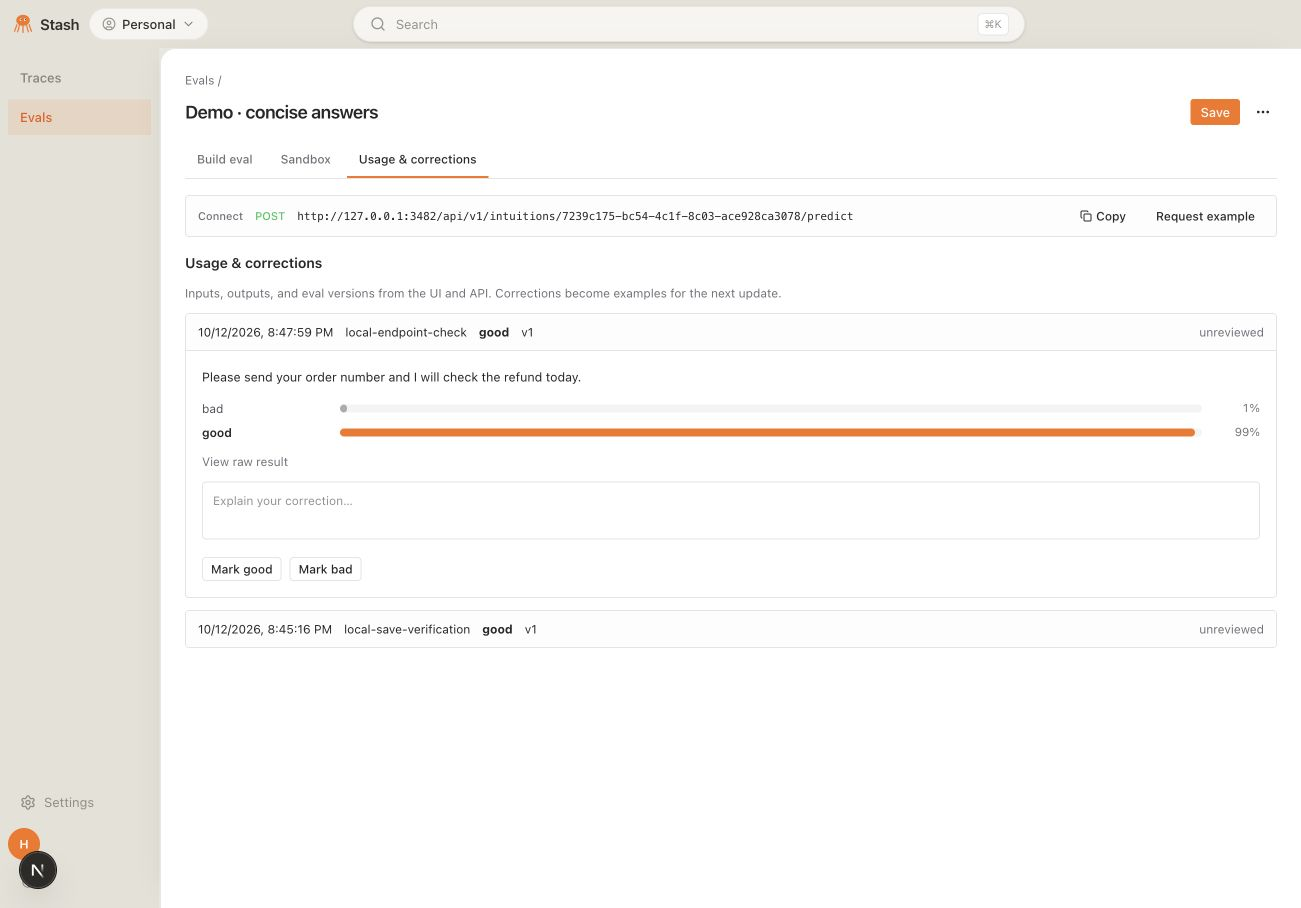
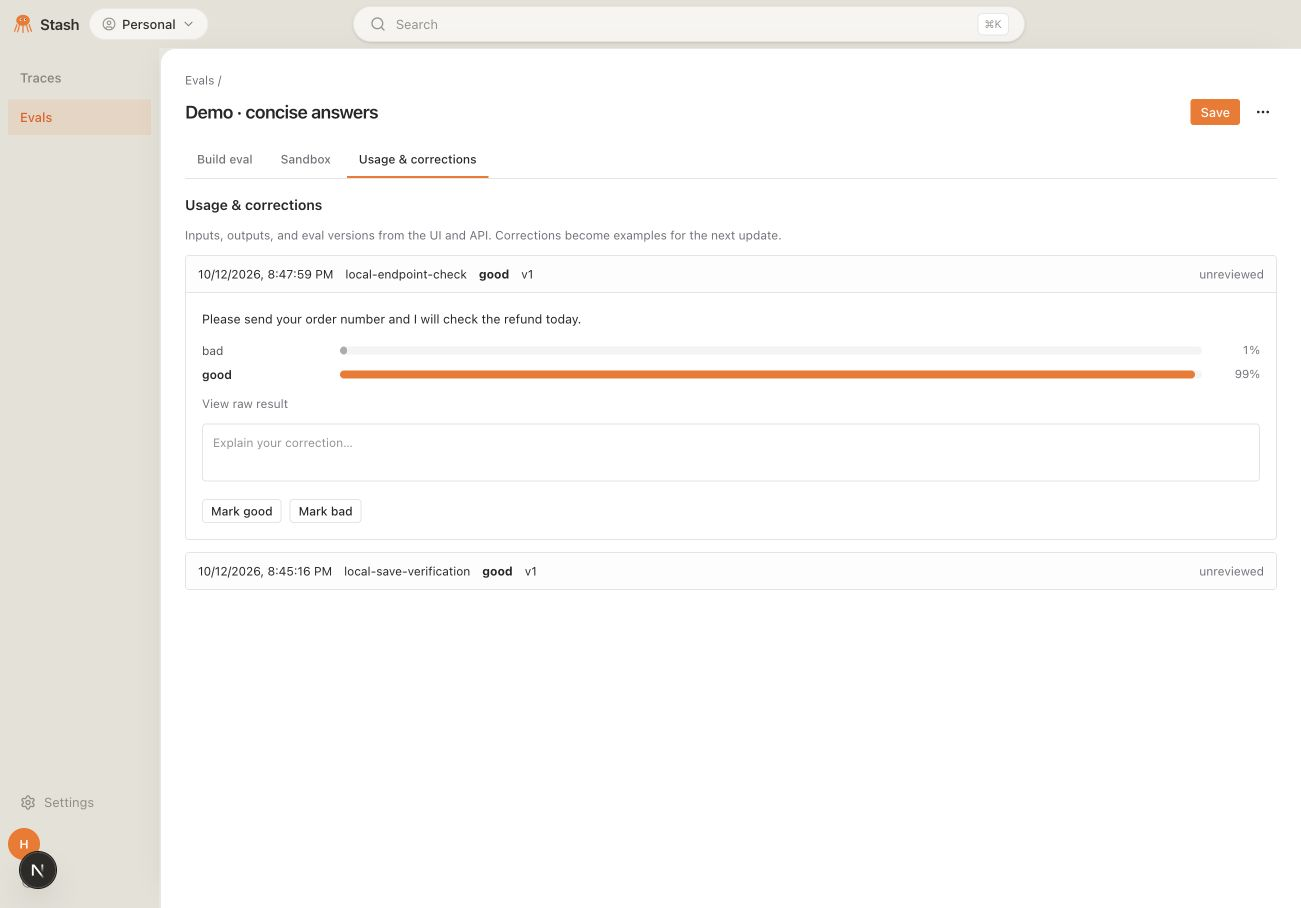
Show eval connection details only on the build tab

diff --git a/frontend/src/components/evals/EvalWorkspace.tsx b/frontend/src/components/evals/EvalWorkspace.tsx
@@ -133,7 +133,7 @@ export default function EvalWorkspace({ id }: { id: string }) {
     <div className="flex flex-wrap items-center justify-between gap-3 border-b border-border">
       <div className="flex gap-1" role="group" aria-label="Eval workspace">{["build", "test", "usage"].map((tab) => <Button key={tab} size="sm" variant="ghost" data-eval-tab className={`h-9 rounded-none border-0 border-b-2 px-3 text-xs ${view === tab ? "border-primary text-foreground" : "border-transparent text-muted-foreground"}`} aria-pressed={view === tab} disabled={!!busy} onClick={() => { if (tab === view) return; setView(tab); setSelectedExample(null); closeAdd(); if (tab === "test") setTestItem(null); }}>{tab === "build" ? "Build eval" : tab === "test" ? "Sandbox" : "Usage & corrections"}</Button>)}</div>
     </div>
-    <EvalEndpoint id={id} outputType={detail.model.output_type} />
+    {view === "build" && <EvalEndpoint id={id} outputType={detail.model.output_type} />}
     {error && !addOpen && !selectedExample && !(saveProgress?.status === "failed" && error === saveError) && <p role="alert" className="text-xs text-destructive">{error}</p>}
     {busy && !selectedExample && saveProgress?.status !== "running" && <p role="status" className="text-xs text-muted-foreground">{busy}</p>}
     {view !== "build" && saveProgress && <SaveStatus progress={saveProgress} error={saveError} onTest={() => { setTestItem(null); setView("test"); }} />}

diff --git a/frontend/src/components/evals/EvalWorkspace.test.tsx b/frontend/src/components/evals/EvalWorkspace.test.tsx
@@ -97,6 +97,12 @@ it("shows the endpoint directly, keeps Connect out of the menu, and expands requ
   fireEvent.keyDown(panel, { key: "Escape" });
   expect(screen.queryByRole("region", { name: "API request" })).not.toBeInTheDocument();
   expect(screen.getByRole("region", { name: "API endpoint" })).toBeVisible();
+  fireEvent.click(screen.getByRole("button", { name: "Sandbox" }));
+  expect(screen.queryByRole("region", { name: "API endpoint" })).not.toBeInTheDocument();
+  fireEvent.click(screen.getByRole("button", { name: "Usage & corrections" }));
+  expect(screen.queryByRole("region", { name: "API endpoint" })).not.toBeInTheDocument();
+  fireEvent.click(screen.getByRole("button", { name: "Build eval" }));
+  expect(screen.getByRole("region", { name: "API endpoint" })).toBeVisible();
 });
 
 it("shows calls from external agents in usage and saves corrections against those calls", async () => {

diff --git a/docs/eval-builder-product.md b/docs/eval-builder-product.md
@@ -6,7 +6,7 @@ The main product has two areas: Traces for observability and Evals for creating,
 
 ## Workspace design
 
-The eval list and detail workspace follow the compact toolbar, neutral surfaces, and table-oriented structure shown in [Braintrust’s playground UI](https://www.braintrust.dev/docs/evaluate/playgrounds). Instructions sit in a narrow configuration column; a single Save button in the page toolbar generates and applies the updated evaluator. One examples table shows outputs, labels, calibration/holdout/reference use, and feedback; opening a row expands a focused inspector directly beneath it for full content, corrections, and sandbox inspection. Add example and the API request example expand inline. A persistent Connect row shows this eval's full POST endpoint and offers a copy control; Connect is removed from the menu. There is no separate activation control or Draft/Active status in the workspace. These flows use no modal overlays. Held-out checks and generated criteria occupy separate panels in the main pane. Small sample checks carry a Limited data badge and show matched-label counts. Inline panels use a minus icon to collapse. Creation, testing, and usage share the same scoped visual styles, preserving the rest of the application and pinned product snapshots.
+The eval list and detail workspace follow the compact toolbar, neutral surfaces, and table-oriented structure shown in [Braintrust’s playground UI](https://www.braintrust.dev/docs/evaluate/playgrounds). Instructions sit in a narrow configuration column; a single Save button in the page toolbar generates and applies the updated evaluator. One examples table shows outputs, labels, calibration/holdout/reference use, and feedback; opening a row expands a focused inspector directly beneath it for full content, corrections, and sandbox inspection. Add example and the API request example expand inline. On Build eval, a Connect row shows this eval's full POST endpoint and offers a copy control; Connect is removed from the menu. There is no separate activation control or Draft/Active status in the workspace. These flows use no modal overlays. Held-out checks and generated criteria occupy separate panels in the main pane. Small sample checks carry a Limited data badge and show matched-label counts. Inline panels use a minus icon to collapse. Creation, testing, and usage share the same scoped visual styles, preserving the rest of the application and pinned product snapshots.
 
 ## Create and update
 
@@ -24,7 +24,7 @@ For API file inputs, upload with `POST /api/v1/intuitions/inputs` (multipart `fi
 
 - Open an eval from anywhere on its list row to visit its dedicated page. The page’s three-dot menu offers Download.
 - Download a JSON snapshot of the saved model definition, active/draft calibration heads and frozen seeds, validation results, and examples. This is a definition export; inference still uses the configured judge provider.
-- The visible Connect row displays this eval's POST endpoint and copy control. A subtle info icon with an API request details tooltip expands an authenticated trace-shaped cURL request and MCP example inline. Calls to this endpoint are logged with input, output, caller, version, and timestamp and appear in Usage & corrections.
+- On Build eval only, the Connect row displays this eval's POST endpoint and copy control. A subtle info icon with an API request details tooltip expands an authenticated trace-shaped cURL request and MCP example inline. Calls to this endpoint are logged with input, output, caller, version, and timestamp and appear in Usage & corrections.
 - Open in sandbox preloads a saved example directly into the editable sandbox input; Run eval explicitly scores it. Structured examples appear as JSON and retain their object input type when edited; invalid JSON disables the run until corrected. This inspects criterion answers and decisions, rather than providing independent evidence on examples used to build the eval. Test against any new output or recorded trace independently of eval creation.
 - Sandbox and normal API calls use the same saved evaluator. Editing instructions does not silently switch either to a different test version. After Save succeeds, both use the updated version.
 - Run a saved eval from the trace viewer and display its scorecard.
@@ -43,7 +43,7 @@ These screenshots use a separate local database and explicitly labeled demo data
 
 ![One Save action and visible Connect endpoint, with separate checks and criteria](assets/eval-save-preview.png)
 
-![Sandbox with a selected example preloaded in the editable input](assets/eval-sandbox-preview.png)
+![Sandbox with a selected example preloaded in the editable input and no Connect row](assets/eval-sandbox-preview.png)
 
 ![An endpoint call recorded in Usage & corrections](assets/eval-api-usage-preview.png)
 
